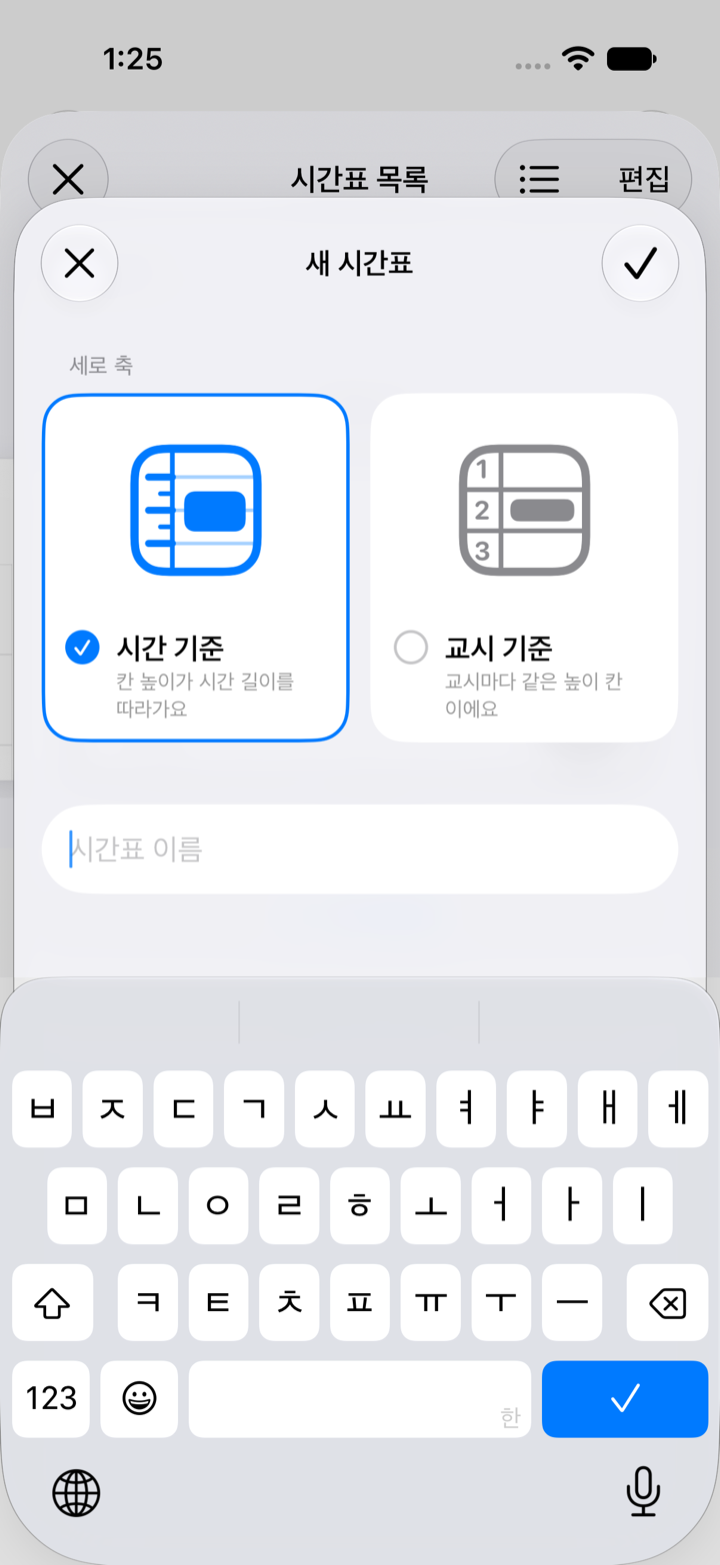
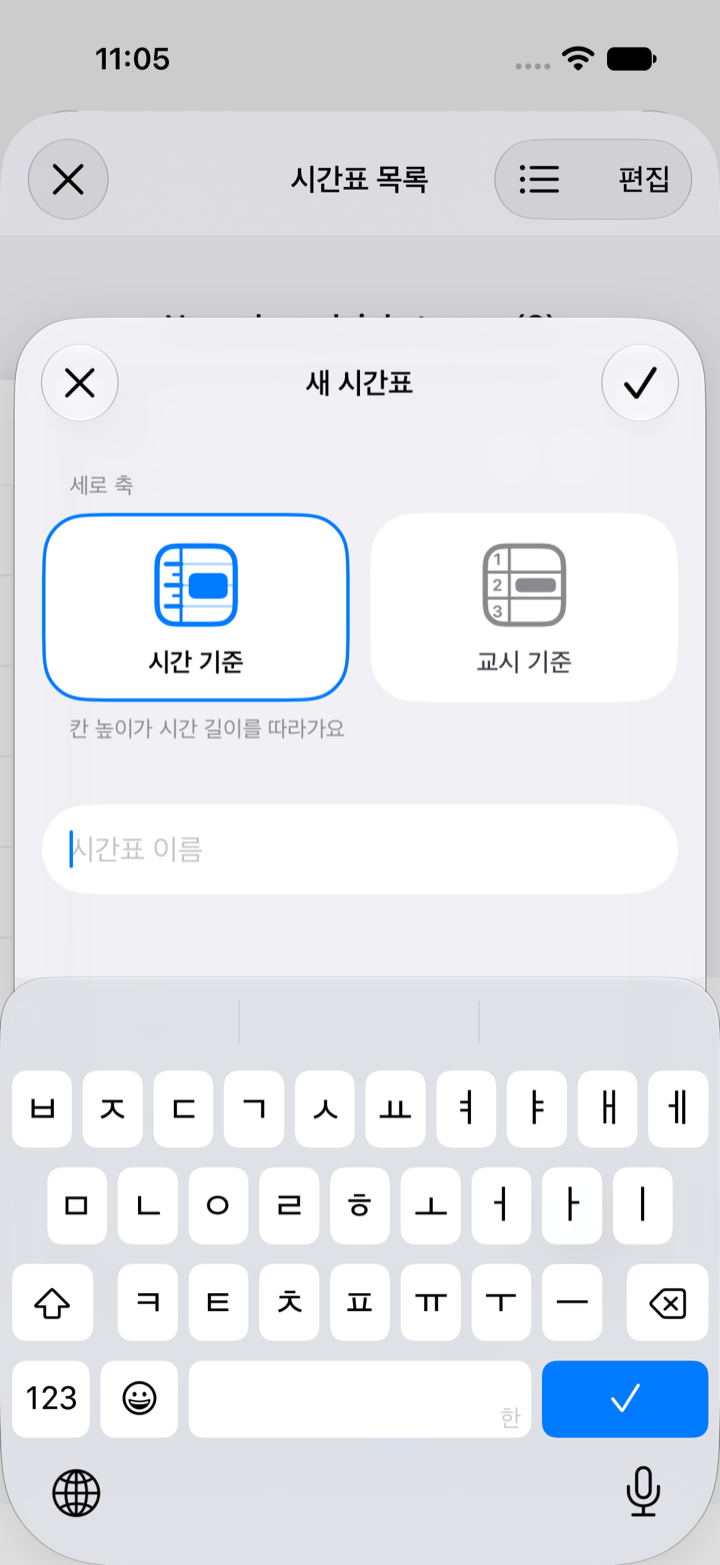
improve: blog — 새 시간표는 타입부터 고르게 하고, 엔터가 바로 만들게 했다 (merge 2026-10-06)
Claude-Session: https://claude.ai/code/session_01PVK9U5xLGKGvCnRS6R2ELu

diff --git a/src/content/blog/en/2026-10-05-timetable-new-sheet-kind-first.md b/src/content/blog/en/2026-10-05-timetable-new-sheet-kind-first.md
@@ -1,6 +1,6 @@
 ---
 title: "New timetables start with the type, and Return creates them"
-date: 2026-10-05T13:29:17+09:00
+date: 2026-10-06T23:19:44+09:00
 app: "timetable"
 tags: ["devlog", "design", "swiftui"]
 summary: "The New Timetable sheet now opens with nothing selected. Pick the vertical axis and the name field appears; Return creates the timetable. Tapping outside only lowers the keyboard — and building that showed that a blocked sheet stays silent when you tap its dimmed backdrop."
@@ -10,11 +10,11 @@ Creating a timetable in SuperTimetable now goes in one order: pick the vertical 
 
 ## The sheet opens with nothing selected
 
-![New Timetable sheet with both axis cards gray, no name field, and a dimmed confirm button](/blog/timetable-new-sheet-kind-first/no-kind-picked.png)
+![New Timetable sheet with both axis tiles gray, no name field, and a line under them saying the choice can be changed later](/blog/timetable-new-sheet-kind-first/no-kind-picked.png)
 
 You see two cards and nothing else. No name field, no keyboard, and the confirm button is disabled. Tap a card and the name field unfolds under it with the cursor in place.
 
-![After picking "by time": the card has a blue border, the name field is focused, and the keyboard's Return key is a blue checkmark](/blog/timetable-new-sheet-kind-first/kind-picked-name-focused.png)
+![After picking "by time": the tile has a blue border, the line under it describes that axis, and the name field is focused](/blog/timetable-new-sheet-kind-first/kind-picked-name-focused.png)
 
 | You do | What happens |
 |---|---|
@@ -29,7 +29,7 @@ Leaving the name empty is fine; it becomes "New Timetable", "New Timetable (2)",
 
 The earlier rule preselected the type of the timetable you were looking at, so most people could type a name and be done. We reversed it.
 
-- **Preselecting** is fast, but the axis cannot be changed after creation. A card that is already blue reads as "decided", not "choose".
+- **Preselecting** is fast, but at the time the axis could not be changed after creation (since October 6 it can, from the Display sheet). One reason still stands: a card that is already blue reads as "decided", not "choose".
 - **Showing the name field from the start** raises the keyboard immediately, so people type before they look at the cards.
 - **Return only closing the keyboard** makes a one-line form ask for the same confirmation twice.
 
@@ -57,3 +57,48 @@ A UI test now performs all three — ground tap, backdrop tap, drag — and chec
 ## What is left
 
 On iPad this is a centered form sheet with different sizing rules. The flow runs the same code, but it has not been captured on an iPad screen yet.
+
+## 2026-10-06 — One tile for the same choice on two screens
+
+The axis can now be changed after creation, from the top of the Display sheet. That gave the app two controls for one choice, and they looked different: large cards with a radio button and a caption in the New Timetable sheet, small icon-and-name tiles in the Display sheet.
+
+![The New Timetable sheet before: two tall cards, each with a large icon, a radio button, a name and a two-line caption](/blog/timetable-new-sheet-kind-first/cards-before.png)
+
+The catch is the order. Creating a timetable opens the Display sheet right away, so you met the card you had just tapped again two seconds later in another shape.
+
+Both sheets now use the same view.
+
+![Top of the Display sheet: the same two tiles as the New Timetable sheet, a one-line caption under them, then the day and period cards](/blog/timetable-new-sheet-kind-first/display-sheet-tiles.png)
+
+| | Before | Now |
+|---|---|---|
+| Icon | 88pt / 44pt | 56pt in both |
+| Selection | radio + blue border / blue border | blue icon + blue border |
+| Caption | two lines inside the card / none | one line under the pair, for the selected axis |
+
+The caption moved out of the tile for two reasons. Inside a half-width tile the French and Spanish captions wrapped, so tile height changed per language. And the Display sheet, where people come to switch, had no caption at all. Before anything is picked, that line says the choice can be changed later.
+
+Folding the New Timetable sheet into the Display sheet lost: that sheet's point is the live timetable behind it, and before creation there is none to show.
+
+## Shorter tiles put the name field behind the keyboard
+
+Only the tiles changed, yet after picking an axis the lower half of the name field sat behind the keyboard.
+
+The sheet is sized to its measured content. Picking an axis does two things at once: the name field unfolds (88pt taller) and it takes focus, raising the keyboard. Printing the measured value in the sheet title showed the content height had updated (197 → 285), but the sheet had been lifted above the keyboard at its old height.
+
+| Variant | Result |
+|---|---|
+| Old tall cards (content 316 → 404) | Fine |
+| New tiles (197 → 285) | Field covered |
+| New tiles + 53pt bottom padding | Fine |
+| New tiles + focus 0.05s later | Fine |
+| Animation speed, caption transition off | Still covered |
+
+Focus is now given 0.1s after the pick, so the sheet grows first. Why the taller content never hit this is still unexplained; we treat the old layout as lucky, not correct.
+
+The first capture almost got waved through: a fresh simulator shows a typing-tips panel on its first keyboard, and that looked like the cause. Dismissing it and capturing the unchanged code the same way settled it.
+
+## History
+
+- 2026-10-05 — Type first, Return creates. Backdrop taps are caught separately.
+- 2026-10-06 — One axis tile shared with the Display sheet; fixed the name field hiding behind the keyboard.
